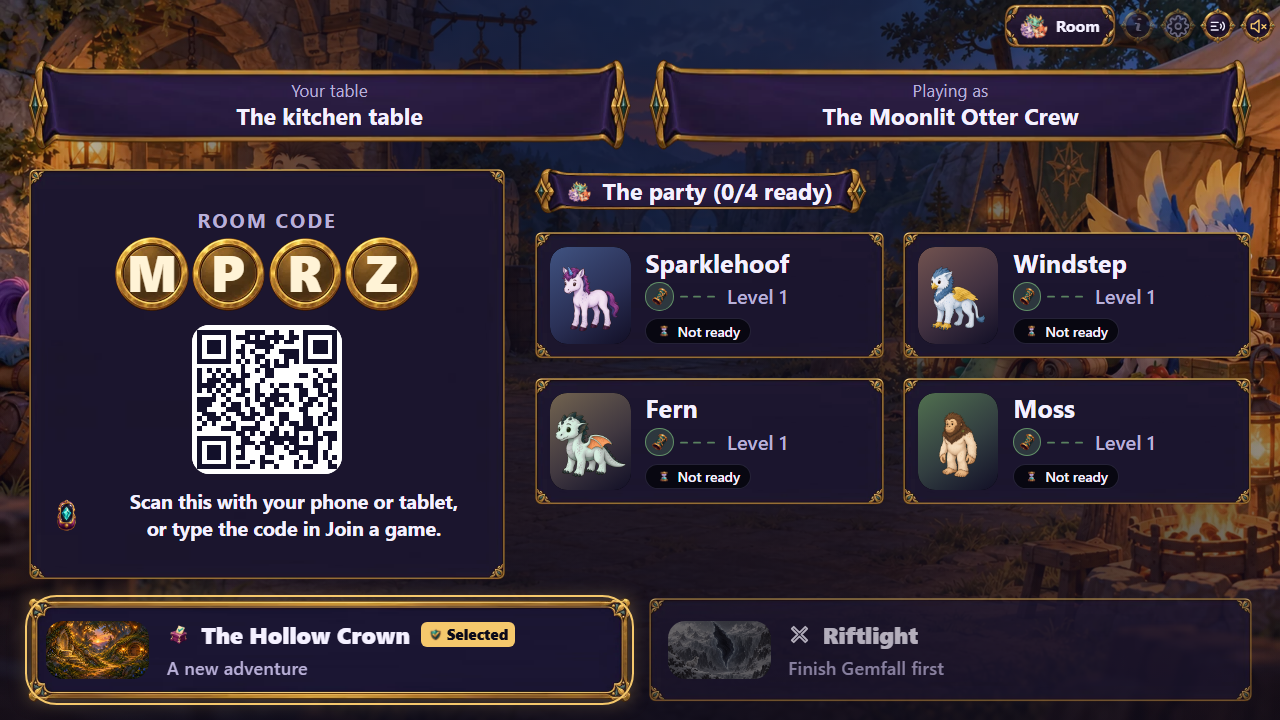
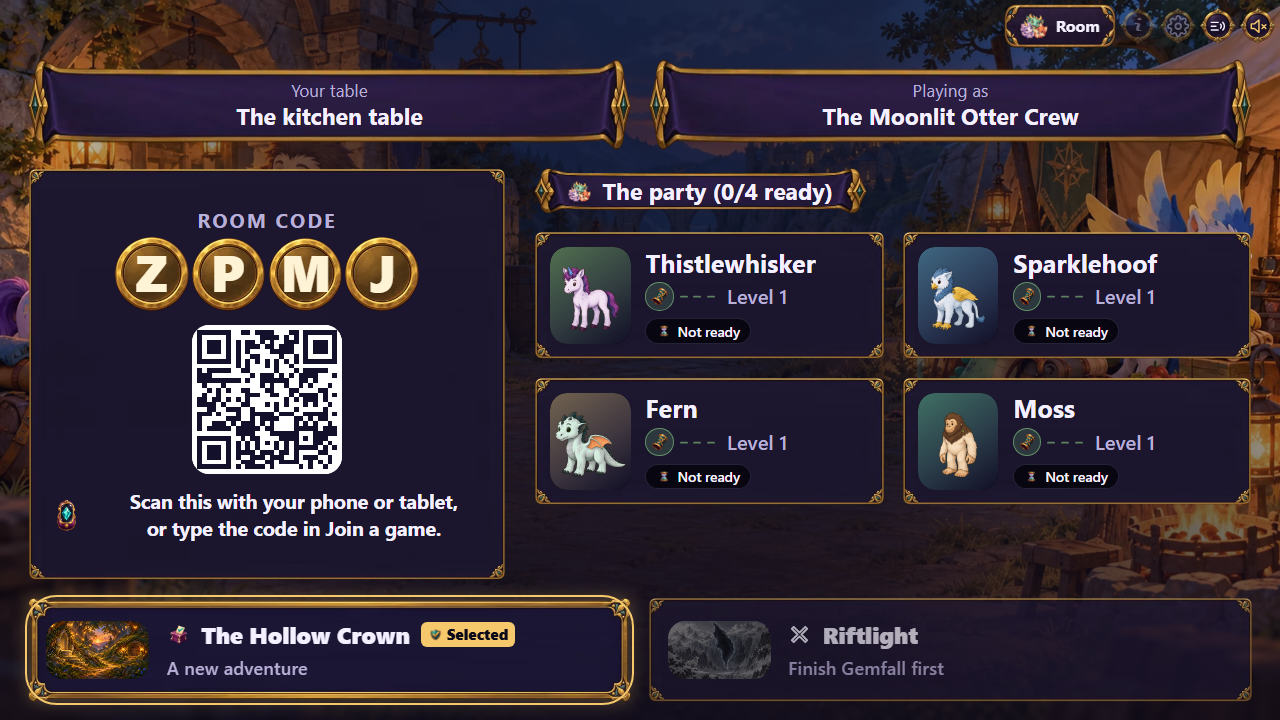
Fix reviewed layout and paginated navigation regressions

diff --git a/packages/client/src/screens/TvLobby.css b/packages/client/src/screens/TvLobby.css
@@ -257,3 +257,30 @@
 @media (min-width: 900px) and (orientation: landscape) {
   .kad-party--world .lobby__crew-hint { display: none; }
 }
+
+/* Keep whole names readable with the wider fallback fonts used on TVs. The
+   portrait yields horizontal space before a name is forced to break. */
+@media (min-width: 900px) and (orientation: landscape) and (max-height: 650px) {
+  .kad-party--world .lobby-member { grid-template-columns: 1.5em minmax(0, 1fr); column-gap: .35em; }
+  .kad-party--world .lobby-member .lobby-member__portrait { inline-size: 1.5em; block-size: 1.9em; }
+  .kad-party--world .lobby-member__name { font-size: .8em; overflow-wrap: normal; word-break: normal; }
+  .kad-party--world .lobby { gap: .3em; padding-block-end: .25em; }
+}
+/* At the largest text size a short display uses one readable roster column.
+   Portrait, whole name and readiness share a row instead of squeezing names. */
+@media (min-width: 900px) and (orientation: landscape) and (max-height: 650px) {
+  html[data-text="largest"] .kad-party--world .lobby__lineup { grid-template-columns: minmax(0, 1fr); }
+  html[data-text="largest"] .kad-party--world .lobby-member {
+    grid-template-columns: 1.3em minmax(0, 1fr) auto;
+    grid-template-rows: auto;
+    row-gap: 0;
+    padding-block: .15em;
+  }
+  html[data-text="largest"] .kad-party--world .lobby-member > .lobby-member__seat,
+  html[data-text="largest"] .kad-party--world .lobby-member > .lobby-member__portrait { grid-row: 1; }
+  html[data-text="largest"] .kad-party--world .lobby-member .lobby-member__portrait { inline-size: 1.3em; block-size: 1.5em; }
+  html[data-text="largest"] .kad-party--world .lobby-member .lobby-member__status { grid-column: 3; grid-row: 1; }
+}
+@media (min-width: 900px) and (orientation: landscape) and (max-height: 650px) {
+  html[data-text="largest"] .kad-party--world .lobby__header > :is(.lobby__place, .lobby__crew) { block-size: 3.2em; }
+}

diff --git a/e2e/tv-lobby-layout.spec.ts b/e2e/tv-lobby-layout.spec.ts
@@ -3,7 +3,7 @@ import { seedTable, openTv, onAir } from "./seed";
 
 test("TV lobby uses one identity header and keeps joining beside four heroes", async ({ browser }, info) => {
   const table = await seedTable({ mode: "party", tv: true, ready: false, heroes: [
-    { name: "Sparklehoof", species: "unicorn" }, { name: "Windstep", species: "griffin" },
+    { name: "Thistlewhisker", species: "unicorn" }, { name: "Sparklehoof", species: "griffin" },
     { name: "Fern", species: "dragonling" }, { name: "Moss", species: "bigfoot" },
   ] });
   const { page, context } = await openTv(browser, table);
@@ -37,6 +37,12 @@ test("TV lobby uses one identity header and keeps joining beside four heroes", a
       await expect(page.locator(".lobby__qr:not(.lobby__qr--empty)")).toBeVisible();
       await expect(page.locator(".lobby-member")).toHaveCount(4);
       await expect(page.locator(".lobby__campaign--picked .lobby__campaign-selected")).toBeVisible();
+      const brokenNames = await page.locator(".lobby-member__name").evaluateAll(names => names.filter(name => {
+        const range = document.createRange();
+        range.selectNodeContents(name);
+        return range.getClientRects().length !== 1 || name.scrollWidth > name.clientWidth + 1;
+      }).map(name => name.textContent));
+      expect(brokenNames, "hero names must remain whole and contained").toEqual([]);
       await page.screenshot({ path: info.outputPath(`tv-${viewport.width}-${viewport.text}-${viewport.ready ? "ready" : "waiting"}${viewport.visitors ? "-visitors" : ""}.png`) });
       const layout = await page.evaluate(() => {
         const frames = [...document.querySelectorAll<HTMLElement>(".lobby__header > .lobby__heading, .lobby__header > .lobby__place, .lobby__header > .lobby__crew")].map(el => el.getBoundingClientRect());

diff --git a/packages/client/src/screens/FieldGuide.test.tsx b/packages/client/src/screens/FieldGuide.test.tsx
@@ -51,6 +51,26 @@ describe("FieldGuideIndex", () => {
     expect(container.innerHTML).not.toContain("Frogfolk");
   });
 
+  it("pages through discoveries, resets on a category change, and puts a new find first", async () => {
+    const user = userEvent.setup();
+    const many = Object.fromEntries(Array.from({ length: 7 }, (_, i) => [`creature.${i}`, entry(`creature.${i}`, "creatures", `Creature ${i}`)]));
+    const expanded = { version: 1, entries: { ...many, "people.a": guide.entries["people.a"]! } };
+    const discoveries = Object.fromEntries(Array.from({ length: 6 }, (_, i) => [`creature.${i}`, find()]));
+    setFieldGuideDiscoveries(discoveries);
+    render(<FieldGuideIndex guide={expanded} />);
+    expect(screen.queryByRole("button", { name: /Creature 5/ })).toBeNull();
+    await user.click(screen.getByRole("button", { name: "More choices" }));
+    await user.click(screen.getByRole("button", { name: /Creature 5/ }));
+    expect(usePlayerNavigation.getState().guideEntry).toBe("creature.5");
+    await user.click(screen.getByRole("tab", { name: "Peoples" }));
+    await user.click(screen.getByRole("tab", { name: "Creatures" }));
+    expect(screen.getByRole("button", { name: /Creature 0/ })).toBeTruthy();
+    await user.click(screen.getByRole("button", { name: "More choices" }));
+    act(() => setFieldGuideDiscoveries({ ...discoveries, "creature.6": { ...find(), foundAt: "2026-11-02T12:00:00Z" } }));
+    expect(screen.getByRole("button", { name: /Creature 6/ })).toBeTruthy();
+    expect(screen.getByRole("status").textContent).toBe("1 / 3");
+  });
+
   it("counts per section and overall", async () => {
     setFieldGuideDiscoveries({ "creature.a": find(), "creature.c": find(), "place.a": find(), "gone.x": find() });
     const user = userEvent.setup();

diff --git a/packages/client/src/layout/party-layout.test.tsx b/packages/client/src/layout/party-layout.test.tsx
@@ -11,7 +11,7 @@
 
 import { StrictMode } from "react";
 import { afterEach, describe, expect, it, vi } from "vitest";
-import { act, cleanup, render, screen, within } from "@testing-library/react";
+import { act, cleanup, fireEvent, render, screen, within } from "@testing-library/react";
 import type { Prompt } from "@kad/shared";
 import { makeMember, makeState } from "../testing/fixtures";
 import { useGameStore } from "../store";
@@ -81,6 +81,7 @@ describe("Party Mode and the map", () => {
     const nav = screen.getByRole("navigation", { name: "What to look at" });
     expect(nav.querySelectorAll("button")).toHaveLength(4);
     // Folded at the foot of the You page until it is opened.
+    act(() => fireEvent.change(screen.getByRole("combobox", { name: "Your page" }), { target: { value: "room" } }));
     const settings = screen.getByRole("button", { name: "Room settings" });
     expect(settings.getAttribute("aria-expanded")).toBe("false");
     act(() => settings.click());
@@ -96,6 +97,7 @@ describe("Party Mode and the map", () => {
   });
   it("dismisses a character sheet when the already-selected You destination is tapped", () => {
     mount();
+    act(() => fireEvent.change(screen.getByRole("combobox", { name: "Your page" }), { target: { value: "party" } }));
     act(() => screen.getByRole("button", { name: /Sparklehoof's character sheet/ }).click());
     expect(screen.getByRole("region", { name: "Sparklehoof's character sheet" })).toBeTruthy();
     expect(screen.queryByRole("button", { name: /^close$/i })).toBeNull();

diff --git a/e2e/accessibility.spec.ts b/e2e/accessibility.spec.ts
@@ -79,7 +79,7 @@ function corner(page: Page, sound = true, help = false): { name: string; locator
     ...(help ? [{ name: "Help", locator: page.getByRole("button", { name: "Help", exact: true }) }] : []),
     { name: "Display settings", locator: page.getByRole("button", { name: "Display settings" }).first() },
     { name: "Read-aloud", locator: page.getByRole("button", { name: /turn read-aloud/i }) },
-    ...(sound ? [{ name: "Sound", locator: page.getByRole("button", { name: /turn sound/i }) }] : []),
+    ...(sound ? [{ name: "Sound", locator: page.getByRole("button", { name: /^(enable sound|turn sound)/i }) }] : []),
   ];
 }
 
@@ -265,10 +265,13 @@ for (const hand of ["right", "left"] as const) {
     // reaching for the top of the phone.
     const dock = page.locator(".player__dock");
     if (await dock.isVisible().catch(() => false)) await dock.click(TAP);
+    await page.getByRole("combobox", { name: "Your page" }).selectOption("room");
     await page.locator(".player__room-settings").getByRole("button", { name: "Room settings" }).click(TAP);
     await page.locator(".player__room-settings").getByRole("button", { name: "Display settings" }).click(TAP);
     await expect(page.getByRole("dialog", { name: "Display settings" })).toBeVisible(TAP);
     await page.keyboard.press("Escape");
+
+    await page.getByRole("combobox", { name: "Your page" }).selectOption("bag");
 
     // The roll: the prompt, then the dice card, on this one small screen.
     await openPlayerTask(page);

diff --git a/packages/client/src/layout/tv-focus.test.tsx b/packages/client/src/layout/tv-focus.test.tsx
@@ -7,7 +7,7 @@
  */
 
 import { afterEach, describe, expect, it, vi } from "vitest";
-import { act, cleanup, render, screen } from "@testing-library/react";
+import { act, cleanup, fireEvent, render, screen } from "@testing-library/react";
 import { beginEncounter, parseBoard, type EncounterState, type Prompt } from "@kad/shared";
 import { makeRules } from "../../../shared/src/test-fixtures";
 import { makeCharacter, makeMember, makeState } from "../testing/fixtures";
@@ -168,6 +168,10 @@ describe("TV focus on a Party Mode phone", () => {
     act(() => screen.getByRole("button", { name: "Look in my bag" }).click());
     expect(screen.queryByTestId("tv-rest")).toBeNull();
     expect(screen.getByLabelText("Your page").closest("[hidden]")).toBeNull();
+    act(() => fireEvent.change(screen.getByLabelText("Your page"), { target: { value: "stats" } }));
+    expect(screen.getByRole("button", { name: "Your stats" })).toBeTruthy();
+    act(() => fireEvent.change(screen.getByLabelText("Your page"), { target: { value: "bag" } }));
+    expect(screen.getByRole("button", { name: /^Your things/ })).toBeTruthy();
     act(() => screen.getByRole("button", { name: "Back to the TV" }).click());
     expect(screen.getByTestId("tv-rest")).not.toBeNull();
   });

diff --git a/e2e/mobile-screen-audit.spec.ts b/e2e/mobile-screen-audit.spec.ts
@@ -16,6 +16,15 @@ for (const viewport of [{ width: 360, height: 640 }, { width: 390, height: 844 }
     }).map(el => `${el.className}: ${el.clientHeight}/${el.scrollHeight}`));
     expect(scrolling, `${name} should fit without scrolling`).toEqual([]);
     if (name === "You") {
+      const picker = page.getByRole("combobox", { name: "Your page" });
+      await picker.focus();
+      await picker.press("Home");
+      await picker.press("ArrowDown");
+      await expect(picker).toHaveValue("stats");
+      await expect(page.getByRole("button", { name: "Your stats", exact: true })).toBeVisible();
+      await picker.press("Home");
+      await expect(picker).toHaveValue("bag");
+      await expect(page.getByRole("button", { name: /^Your things/ })).toBeVisible();
       for (const section of ["stats", "party", "token", "room", "bag"]) {
         await page.getByRole("combobox", { name: "Your page" }).selectOption(section);
         expect(await page.locator(".player__scroll").evaluate(el => el.scrollHeight <= el.clientHeight + 1), section).toBe(true);

diff --git a/packages/client/src/screens/FieldGuide.tsx b/packages/client/src/screens/FieldGuide.tsx
@@ -87,7 +87,13 @@ export function FieldGuideIndex({ guide }: { guide: FieldGuideData | null }) {
   const sections = SECTIONS.filter((s) => all.some((e) => e.category === s.id));
   const section = sections.find((s) => s.id === picked) ?? sections[0];
   const found = Object.keys(guide.entries).filter((id) => discoveries[id]).length;
-  const items = section ? all.filter((e) => e.category === section.id) : [];
+  // Discovered pages come first, newest finds first. Unfound silhouettes
+  // should never stand between a kid and something they just met.
+  const items = section ? all.filter((e) => e.category === section.id).sort((a, b) => {
+    const left = discoveries[a.id];
+    const right = discoveries[b.id];
+    return Number(!!right) - Number(!!left) || (left && right ? right.foundAt.localeCompare(left.foundAt) : 0);
+  }) : [];
   const foundHere = items.filter((e) => discoveries[e.id]).length;
 
   return (

diff --git a/e2e/field-guide.spec.ts b/e2e/field-guide.spec.ts
@@ -1,3 +1,4 @@
+import { revealPagedChoice } from "./choice-pages";
 import { openPlayerTask } from "./player-navigation";
 import { roomState } from "./room-state";
 /**
@@ -176,7 +177,9 @@ test.describe("the Field Guide", () => {
     await expect(guide).toBeVisible();
     await expect(tray.getByRole("button", { name: /^Guide$/ })).toHaveAttribute("aria-pressed", "true");
     await guide.getByRole("tab", { name: "Creatures" }).click(TAP);
-    await guide.getByRole("button", { name: WISP }).click(TAP);
+    const wisp = guide.getByRole("button", { name: WISP });
+    expect(await revealPagedChoice(guide, wisp)).toBe(true);
+    await wisp.click(TAP);
     await expect(guide.getByRole("heading", { name: WISP })).toBeVisible();
     await expect(guide.getByRole("heading", { name: "Story", exact: true })).toBeVisible();
     await expect(guide.getByText(/tangle in marsh magic/)).toBeVisible();

diff --git a/e2e/layout-fit.spec.ts b/e2e/layout-fit.spec.ts
@@ -575,8 +575,10 @@ test.describe("nothing sits under the controls pinned over the screen, or is cut
 
     // --- Class tokens (#314): her own view, a friend's sheet, and a rank landing ---
     await showYou(guest);
+    await guest.getByRole("combobox", { name: "Your page" }).selectOption("token");
     await expect(guest.getByText(/^Your (thorn bracer|dusk hood|star circlet|song bell)$/)).toBeVisible(TAP);
     await expectFits(guest, "guest's own view, with her worn token");
+    await guest.getByRole("combobox", { name: "Your page" }).selectOption("party");
     await guest.getByRole("button", { name: "Sparklehoof's character sheet" }).click(TAP);
     await expect(guest.getByText(/^Sparklehoof's (thorn bracer|dusk hood|star circlet|song bell)$/)).toBeVisible(TAP);
     await expectFits(guest, "a friend's sheet, with their token");

diff --git a/e2e/choice-pages.ts b/e2e/choice-pages.ts
@@ -1,0 +1,15 @@
+import type { Locator, Page } from "@playwright/test";
+
+/** Follow visible page controls; never click hidden or unrendered choices. */
+export async function revealPagedChoice(scope: Page | Locator, target: Locator): Promise<boolean> {
+  if (await target.isVisible()) return true;
+  const pager = scope.getByRole("navigation", { name: "Choice pages" });
+  if (!(await pager.isVisible())) return false;
+  const numbers = (await pager.getByRole("status").textContent())?.match(/\d+/g) ?? [];
+  const pages = Number(numbers[1] ?? 1);
+  for (let page = 1; page < pages; page++) {
+    await pager.getByRole("button", { name: "More choices", exact: true }).click();
+    if (await target.isVisible()) return true;
+  }
+  return false;
+}

diff --git a/e2e/offline.spec.ts b/e2e/offline.spec.ts
@@ -1,3 +1,4 @@
+import { revealPagedChoice } from "./choice-pages";
 /**
  * The adventure book with no signal — on a reload, and in a new tab — against
  * a production build, where the service worker lives
@@ -63,7 +64,7 @@ async function studyTheBook(page: Page): Promise<void> {
   for (const tab of await guide.getByRole("tab").all()) {
     await tab.click(TAP);
     const found = guide.locator("button.field-guide__card:not([disabled])");
-    if ((await found.count()) === 0) continue;
+    if (!(await revealPagedChoice(guide, found.first()))) continue;
     await found.first().click(TAP);
     await expect(guide.getByTestId("guide-detail")).toBeVisible(TAP);
     return;
